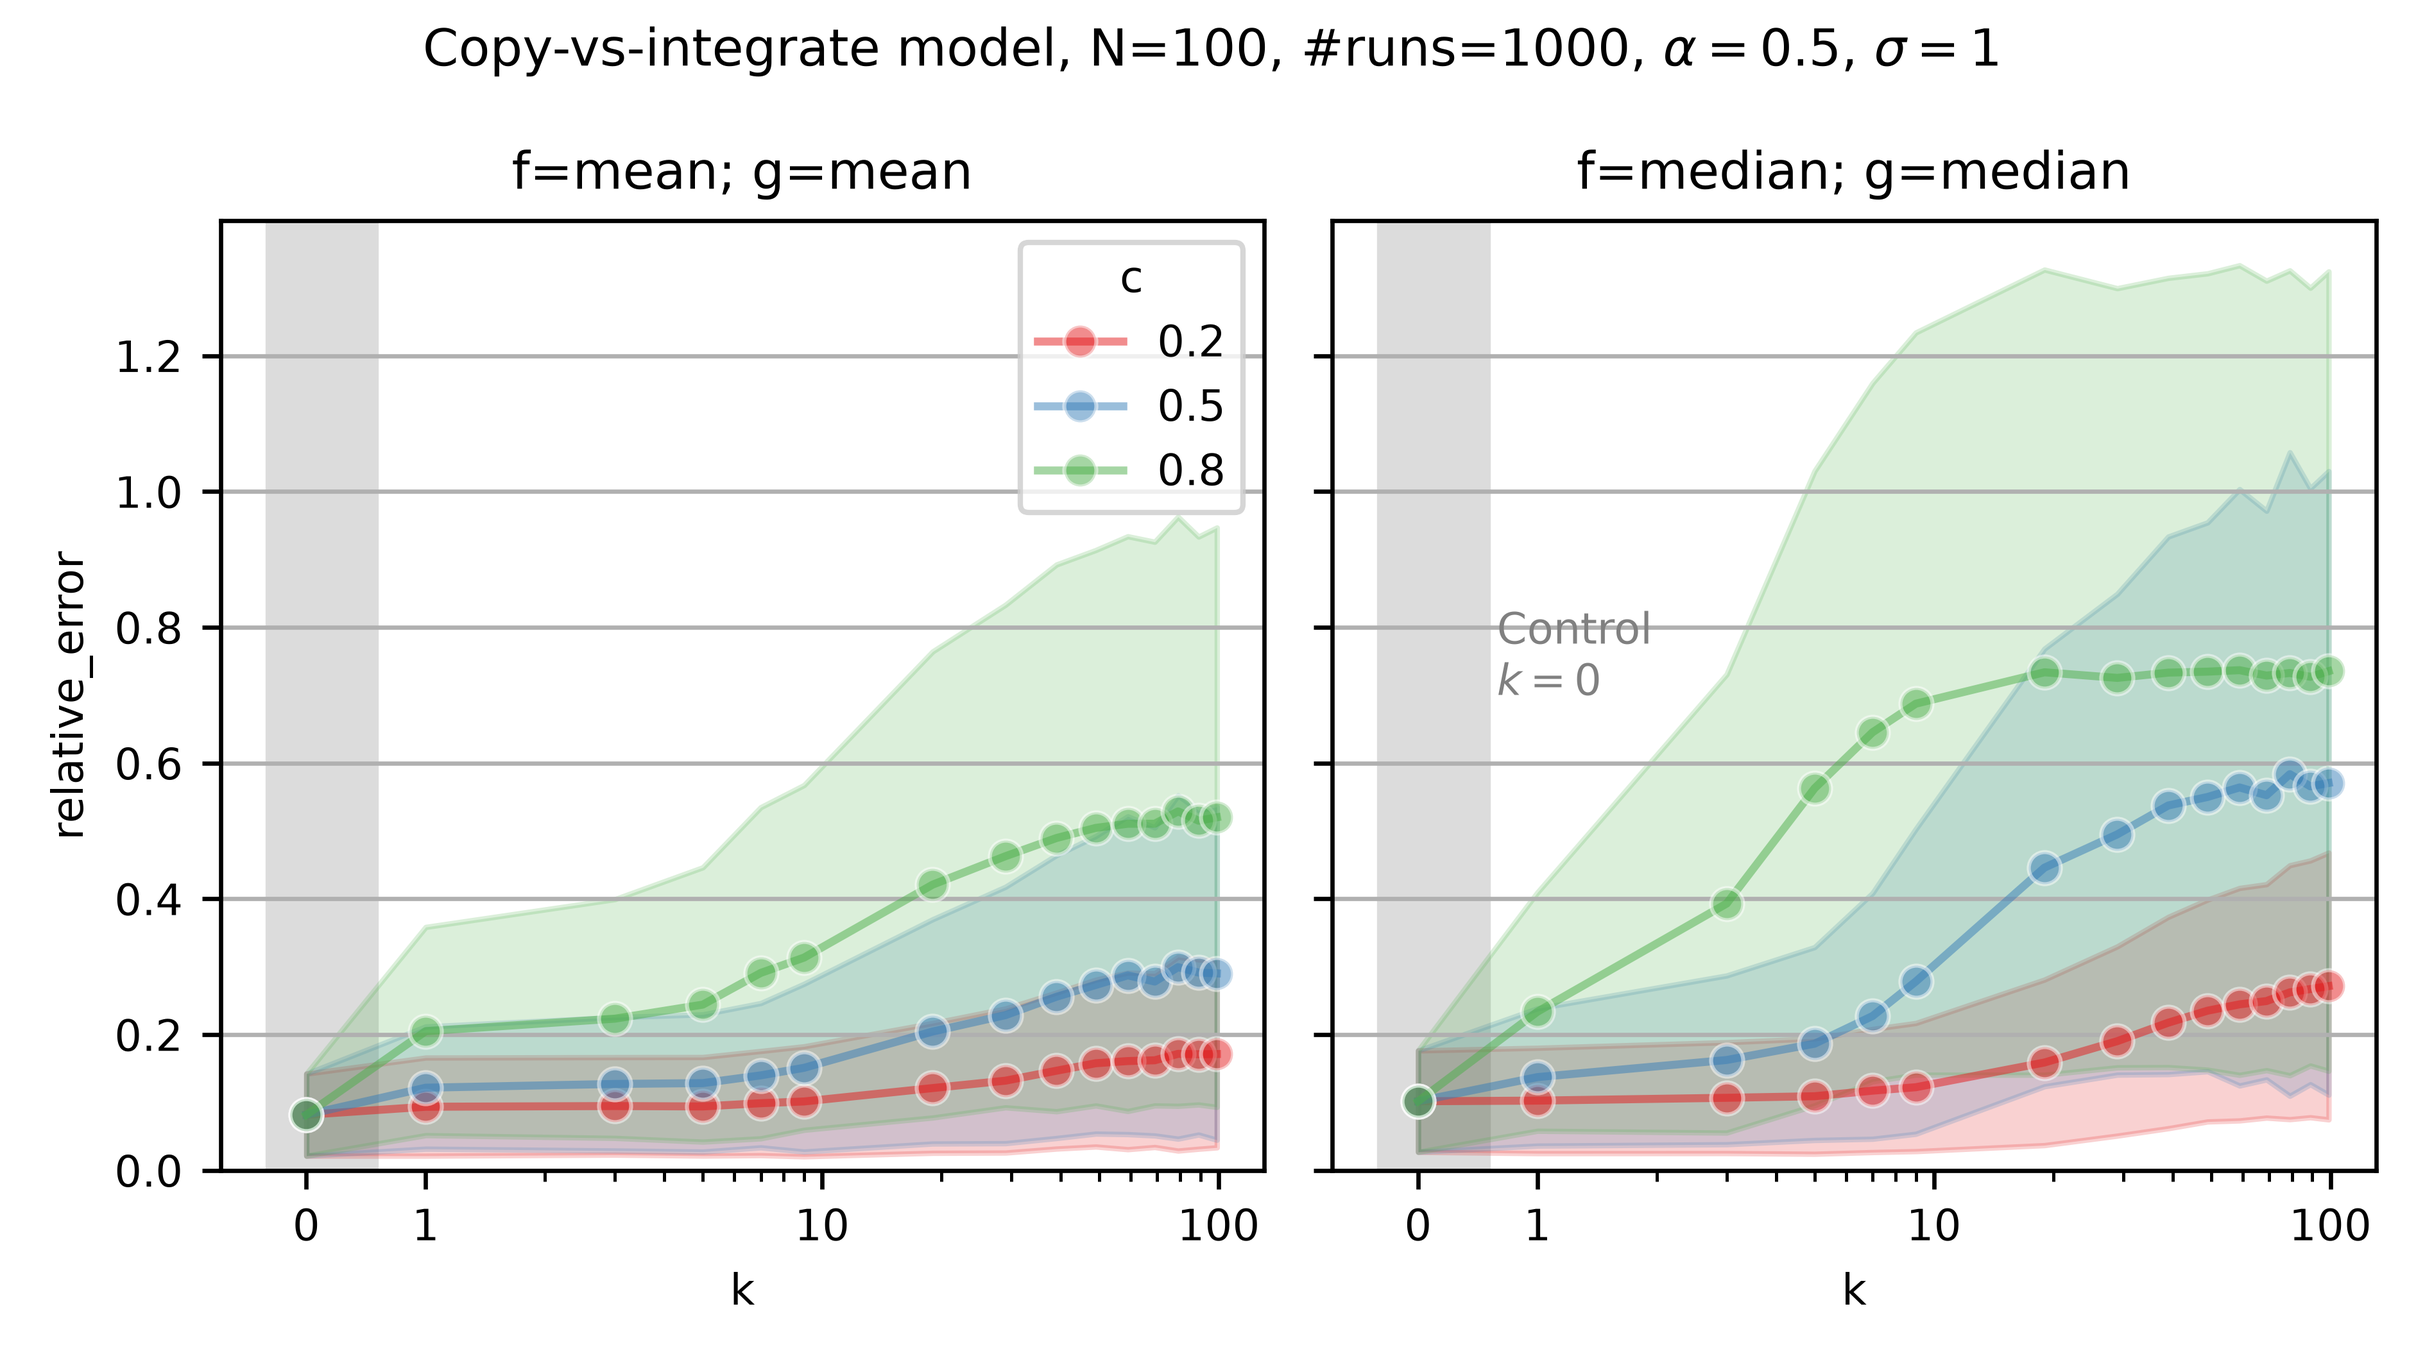
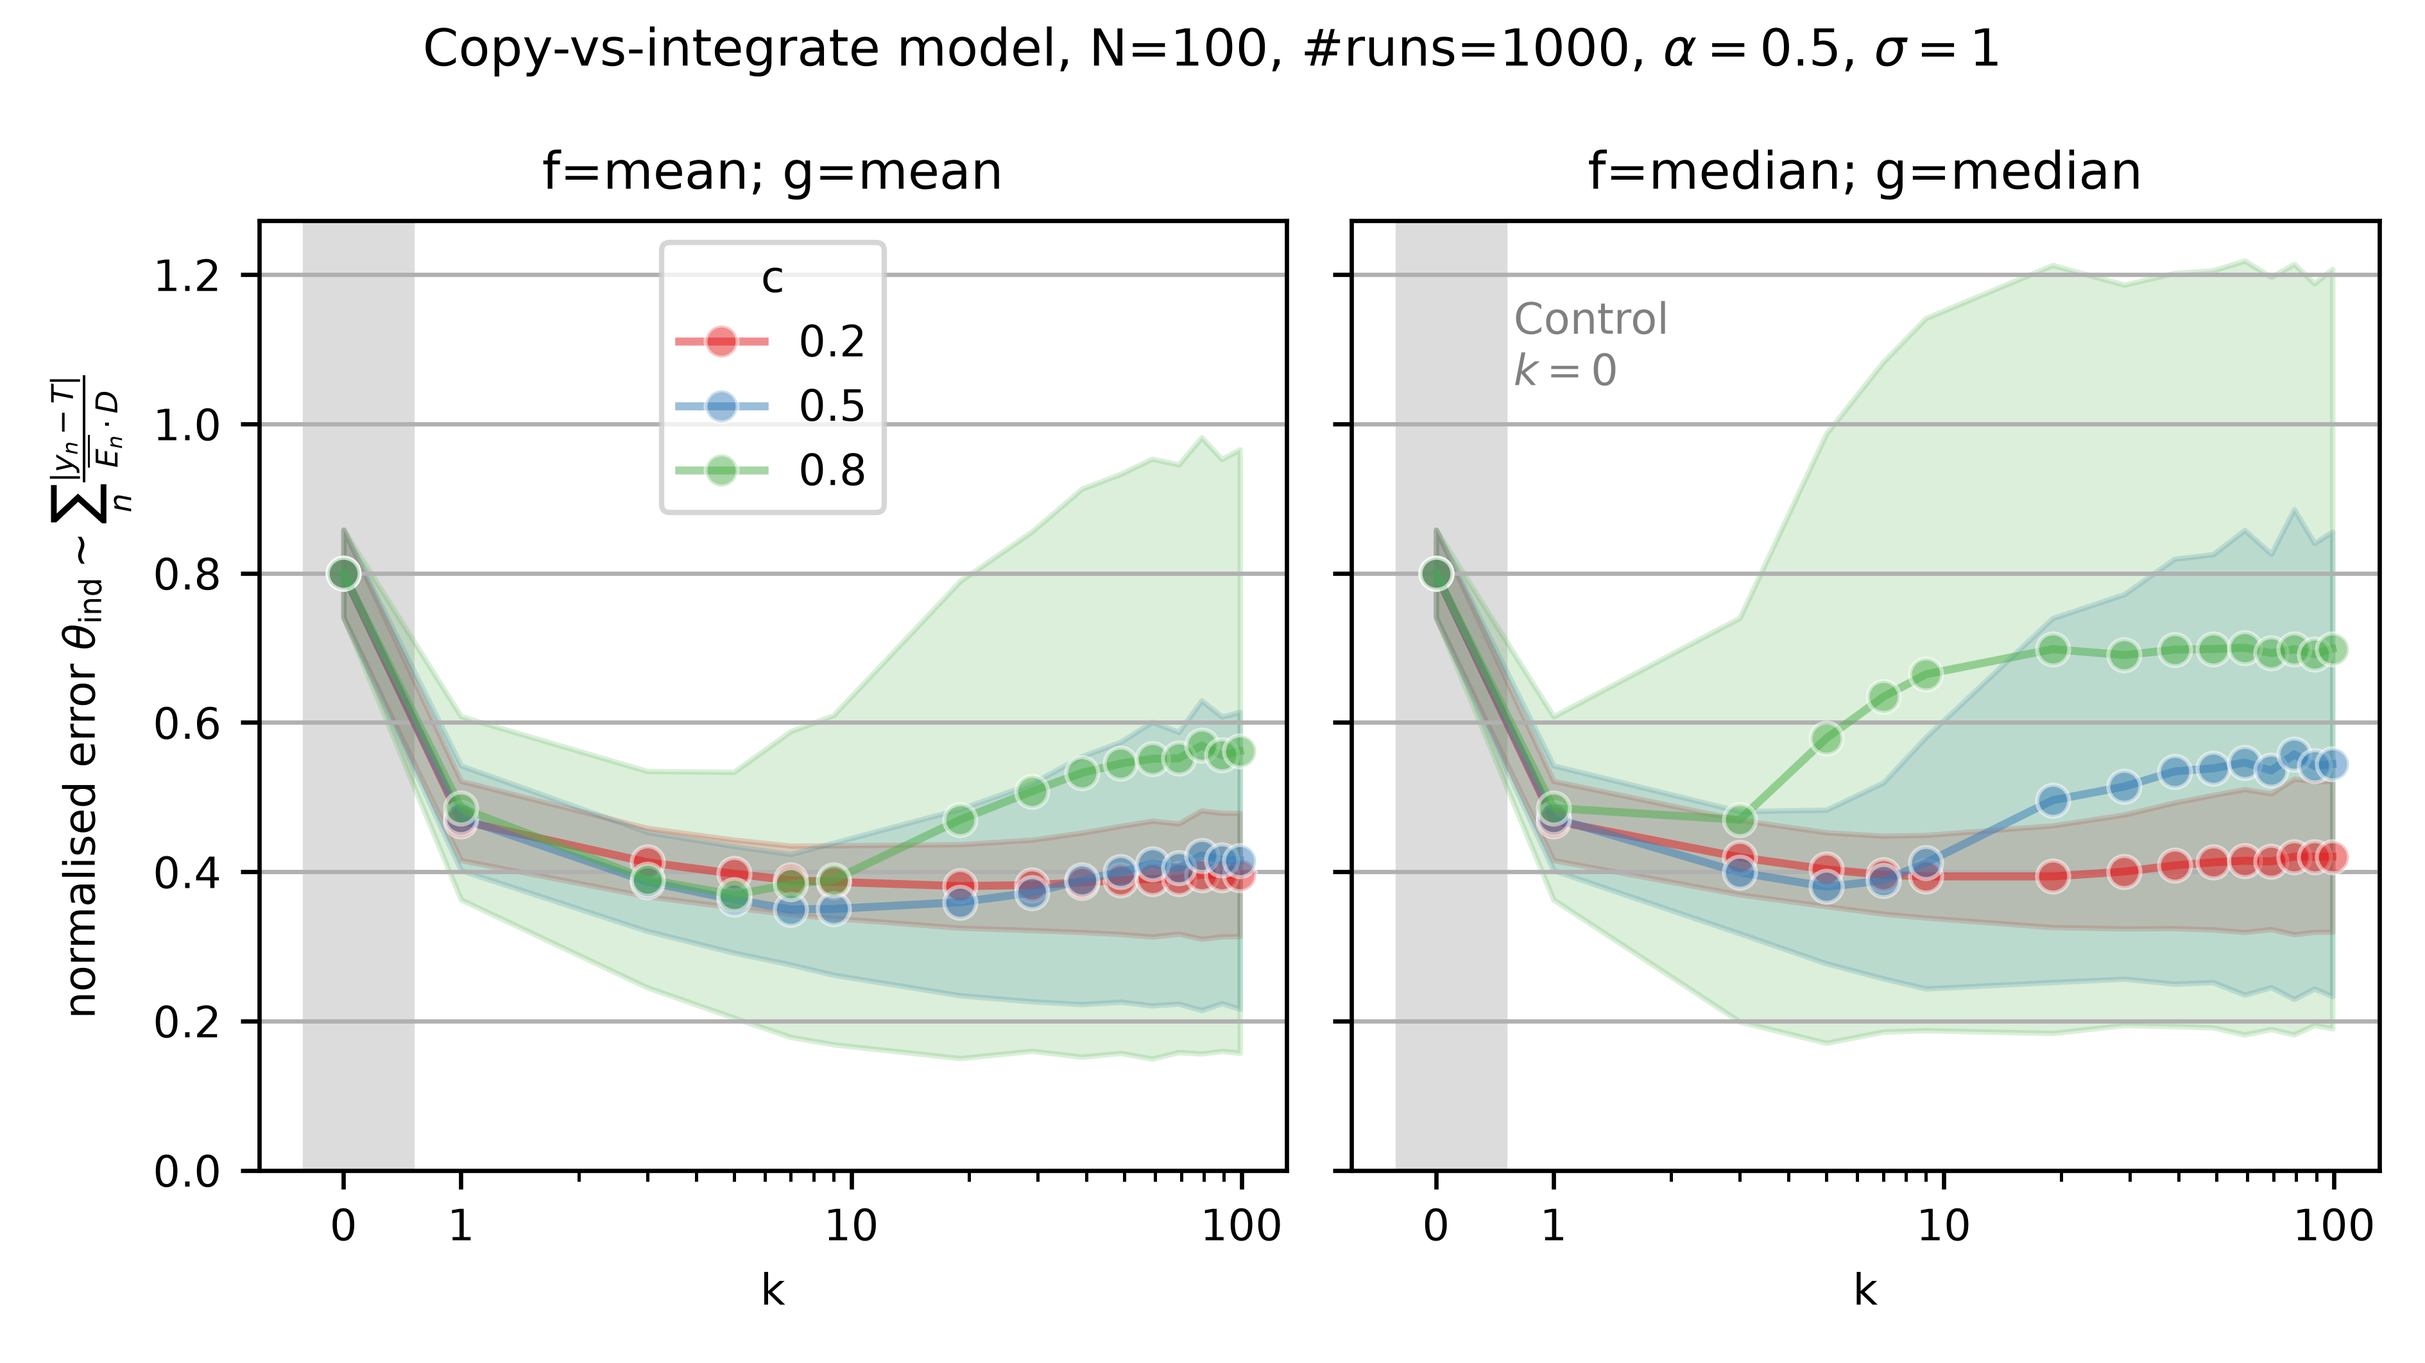
updated scripts

diff --git a/2026-09-20_sequentialJudgement_models.py b/2026-09-20_sequentialJudgement_models.py
@@ -30,6 +30,7 @@ logist = lambda x: (1/(1+np.exp(-x)))
 #     return logist(G) + (1-logist(G)) * 4 * (norm.cdf((signal - truth)/(D*logist(E)))- 0.5)**2 
 def p(signal, truth, G, D, E): 
     return logist(G) + (1-logist(G)) * (erf((signal - truth)/(D*logist(E)*(2**0.5))))**2 
+
 def new_signal(signal, truth, D, E, R, anchoring=True): 
     if np.isnan(signal):
         loc=truth
@@ -70,13 +71,13 @@ inds = range(n_per_chain)
 T = 0.2
 R = 0.4
 anchoring = True
-memory_sizes = [0] + list(range(1,20,2))+[49,99]
+memory_sizes = [0] + list(range(1,20,2))+[29,39,49,59,69,79,89,99]
 
 MHparams = [(-1,3,0), (-1,3,-2), (-1,3,2), (0,3,0), (-1,1,0)]
 errorsMH = []
 copyDict = {}
-for ffunc, gfunc in zip(["mean", "median"], ["mean", "median"]):
-    print(f"{ffunc}, {gfunc}")
+for gfunc in ["mean", "median"]:
+    print(f"{gfunc}")
     sigG, sigE = (1e-5, 1e-5)
     for Gmean, D, Emean in MHparams:
         print(f"Gmean: {Gmean} (and {logist(np.mean(G)):.3f}), Emean={Emean} (and {logist(np.mean(E)):.3f}), D={D}, sigG={sigG}, sigE={sigE}")
@@ -88,61 +89,76 @@ for ffunc, gfunc in zip(["mean", "median"], ["mean", "median"]):
                 guesses = []
                 copier=0
                 for i in inds:
-                    last_k_guesses = guesses if k>=len(guesses) else guesses[-k:]
+                    last_k_guesses = [] if k==0 else (guesses if k>=len(guesses) else guesses[-k:])
                     signal = np.nan if len(last_k_guesses)==0 else agg(last_k_guesses, gfunc)
-                    if not np.isnan(signal):
+                    if not np.isnan(signal) and k>0:
                         p_ik = 1 - p(signal, T,  G=G[i], D=D, E=E[i]) # probability copy
                         copy = int(np.random.random()<p_ik) 
+                    if i==inds[0] or k==0: 
+                        guess = new_signal(np.nan, T, D=D, E=E[i], R=1, anchoring=False)
                     else:
-                            copy = False
-                    guess = signal if copy else new_signal(signal, T, D=D, E=E[i], R=R, anchoring=anchoring)
+                        guess = signal if copy else new_signal(signal, T, D=D, E=E[i], R=R, anchoring=anchoring)
                     guesses.append(guess)
                     copier+= copy
                 copyDict[(Gmean, D, Emean, k, seed)] = copier
-                relerror = abs(agg(guesses, ffunc) - T)/(D*logist(np.mean(E)))
-                errorsMH.append([seed, gfunc, ffunc, D, Emean, Gmean, R, k, relerror])
+                if k==0:
+                    relerror_agg = abs(agg(guesses, "mean") - T)/(D*logist(np.mean(E)))
+                else:
+                    relerror_agg = np.nan
+                relerror_ind_indSigma = np.mean([abs(g-T)/(D*logist(E[i])) for i,g in enumerate(guesses)])
+                relerror_ind_expectedSigma = np.mean([abs(g-T) for g in guesses])/(D*logist(np.mean(E)))
+                relerror_final = abs(guesses[-1]-T)/(D*logist(np.mean(E)))
+                errorsMH.append([seed, gfunc, np.nan, D, Emean, Gmean, R, k, relerror_agg, relerror_ind_indSigma, relerror_ind_expectedSigma, relerror_final])
         # print(f"nr of copy-decisions (last seed) with k={k}: {copier} of {len(inds)-1} decisions")
 
 # %%
-errorsMH_df = pd.DataFrame(errorsMH, columns = ["seed", "gfunc", "ffunc", "D", "E", "G", "R", "k", "relative_error"])
+# errorsMH_df = pd.DataFrame(errorsMH, columns = ["seed", "gfunc", "ffunc", "D", "E", "G", "R", "k", "relative_error_agg", "relative_error_ind_indSigma", "relative_error_ind", "relative_error_final"])
 # errorsMH_df = errorsMH_df.loc[errorsMH_df.k.isin([0]+list(range(1,101,2)))]
 errorsMH_df["k"] = errorsMH_df["k"].astype(float)
-errorsMH_df.loc[errorsMH_df.k==0, "k"] = 0.5
-fig, axs = plt.subplots(1,2,figsize=(16/2.54,9/2.54), sharey=True, sharex=True)
-fig.suptitle(rf"Mayer&Heck model, N={n_per_chain}, #runs={n_seeds}, $R={R}$")
-axes = axs.flatten()
-counter = 0
-for curr_ffunc, curr_gfunc in zip(["mean", "median"], ["mean", "median"]):
-    ax = axes[counter]
-    sub = errorsMH_df.query(f"ffunc=='{curr_ffunc}' and gfunc=='{curr_gfunc}'")
-    sub["parameters"] = r"$\mu_E="+ logist(sub["E"]).map('{:.1f}'.format)+rf"\pm{sigE:.1f}"+ r"$, $\mu_G=" + logist(sub["G"]).map('{:.1f}'.format) +rf"\pm{sigE:.1f}"+ r"$, $D=" + sub["D"].map('{:.0f}'.format)  + r"$"
-    # sub["parameters"] = logist(sub["E"]).map('{:.1f}'.format)+"_" + logist(sub["G"]).map('{:.1f}'.format) +"_"+ sub["D"].map('{:.0f}'.format)  
-    sns.lineplot(sub, x="k", y="relative_error", hue="parameters", ax=ax, marker="o", palette="Set1", alpha=0.5, legend=ax==axs[0], errorbar="sd")
-    # ax.set_yscale("log")
-    if ax==axs[0]: ax.legend(title=None, fontsize=7)
-    ax.set_title(rf"f={curr_ffunc}; g={curr_gfunc}")
-    # for nD, params in enumerate(sub["parameters"].unique()):
-    #     mm = sub.query(fr"parameters=='{params}'")["relative_error"].mean()
-    #     ss = sub.query(fr"parameters=='{params}'")["relative_error"].describe(percentiles=[0.025,0.975]).loc[["2.5%", "97.5%"]].values
-    #     ax.axhline(ss[0], color=plt.get_cmap("Set1").colors[nD], linestyle="--", alpha=0.2)
-    #     ax.axhline(ss[1], color=plt.get_cmap("Set1").colors[nD], linestyle="--", alpha=0.2)
-    #     ax.axhline(mm, color=plt.get_cmap("Set1").colors[nD], linestyle="--")
-    counter+=1
+errorsMH_df.loc[(errorsMH_df.k==0), "k"] = 0.5
+for theta in ["final", "ind"]:
+    
+    fig, axs = plt.subplots(1,2,figsize=(16/2.54,9/2.54), sharey=True, sharex=True)
+    fig.suptitle(rf"Mayer&Heck model, N={n_per_chain}, #runs={n_seeds}, $R={R}$")
+    axes = axs.flatten()
+    counter = 0
+    thetaLabel = (
+        r"normalised error $\theta_\mathrm{final} \sim \frac{|y_N-T|}{\overline{E_n} \cdot D}$" 
+        if theta=="final" else 
+            (r"normalised error $\theta_\mathrm{ind} \sim \sum_n \frac{|y_n-T|}{\overline{E_n} \cdot D}$"
+            if theta=="ind" else 
+            r"normalised error $\theta_\mathrm{WoC} \sim \frac{|\overline{y_n}-T|}{\overline{E_n} \cdot D}$" 
+            )
+    )
 
-for ax in axes:
-    ax.set_ylim(0,)
-    ax.set_xscale("log")
-    ax.grid(axis="y", zorder=-2)
-    ax.set_xticks([x  for x in ax.get_xticks(minor=True) if x>=1], minor=True)
-    ax.set_xticks([0.5] + [x  for x in ax.get_xticks() if x>=1])
-    ax.set_xticklabels(["0"] + [int(x)  for x in ax.get_xticks() if x>=1])
-    ax.fill_betweenx(ax.get_ylim(), 0.4,0.75, color="gainsboro", zorder=-1)
-    if ax==axs[1]: ax.text(0.79,1., "Control\n"+r"$k=0$", color="grey", ha="left")
-plt.tight_layout()
-plt.savefig("figs/model2_results.png", dpi=600)
+    for curr_gfunc in ["mean", "median"]:
+        ax = axes[counter]
+        sub = errorsMH_df.query(f"gfunc=='{curr_gfunc}'")
+        sub["parameters"] = r"$\mu_E="+ logist(sub["E"]).map('{:.1f}'.format) + rf"\pm{sigE:.1f}" + r"$, $\mu_G=" + logist(sub["G"]).map('{:.1f}'.format) + rf"\pm{sigE:.1f}"+ r"$, $D=" + sub["D"].map('{:.0f}'.format)  + r"$"
+        sns.lineplot(sub, x="k", y="relative_error_"+theta, hue="parameters", ax=ax, marker="o", palette="Set1", alpha=0.5, linestyle="-", legend=ax==axs[0], errorbar="sd", err_kws={'alpha':0.1})
+        # ax.set_yscale("log")
+        if ax==axs[0]: ax.legend(title=None, fontsize=7)
+        ax.set_title(rf"$x_n=\,${curr_gfunc} of last $k$ estimates")
+        G,D,E  =  (-1,1,0)
+        mm = sub.query(fr"k==0.5 and D=={D} and G=={G} and E=={E}")["relative_error_agg"].mean()
+        ax.axhline(mm, color="k", linestyle="--", alpha=0.6)
+        counter+=1
+    axes[0].set_ylabel(thetaLabel)
+
+    for ax in axes:
+        ax.set_ylim(0,)
+        ax.set_xscale("log")
+        ax.grid(axis="y", zorder=-2)
+        ax.set_xticks([x  for x in ax.get_xticks(minor=True) if x>=1], minor=True)
+        ax.set_xticks([0.5] + [x  for x in ax.get_xticks() if x>=1])
+        ax.set_xticklabels(["0"] + [int(x)  for x in ax.get_xticks() if x>=1])
+        ax.fill_betweenx(ax.get_ylim(), 0.4,0.75, color="gainsboro", zorder=-1)
+        if ax==axs[1]: ax.text(0.79,ax.get_ylim()[1]*0.92, "Control\n"+r"$k=0$", color="grey", ha="left", va="top")
+        if ax==axs[1]: ax.text(1.4, mm+0.02, r"$\theta_{\rm WoC}(k=0)$", color="grey")
+    plt.tight_layout()
+    plt.savefig(f"figs/model2_results_{theta}.png", dpi=600)
 
 #%%
-
 # ---------------------
 # -----   Marina, Alexandros, Pantelis et al
 # ---------------------
@@ -157,54 +173,82 @@ memory_sizes = [0] + list(range(1,10, 2))+list(range(19,100,10))
 
 errors = []
 errorsindep = []
-for ffunc, gfunc in zip(["mean", "median"], ["mean", "median"]):
-        print(ffunc, gfunc)
-        for c in [0.2,0.5, 0.8]:
+for gfunc in ["mean", "median"]:
+        print(gfunc)
+        for c in [0.2,0.5,0.8]:
             for seed in range(n_seeds):
                 np.random.seed(seed)
                 private_beliefs = st.norm(loc=T, scale=sig).rvs(n_per_chain)
                 for k in memory_sizes:
                     guesses = []
                     for i in inds:
-                        last_k_guesses = guesses if k>=len(guesses) else guesses[-k:] 
+                        last_k_guesses = [] if k==0 else (guesses if k>=len(guesses) else guesses[-k:])
                         signal = np.nan if len(last_k_guesses)==0 else agg(last_k_guesses, gfunc)
-                        if not np.isnan(signal): 
+                        if not np.isnan(signal) and k>0: 
                             copy = bool(np.random.random()<c) 
-                        else:
-                            copy = False
                         if i==inds[0] or k==0: 
                             guess = private_beliefs[i]
                         else:
                             guess = signal if copy else (alpha * signal + (1-alpha) * private_beliefs[i])
                         guesses.append(guess)
-                    relerror = abs(agg(guesses, ffunc) - T)/sig
-                    errors.append([seed, gfunc, ffunc, c, alpha, sig, k, relerror])
+
+                    if k==0:
+                        relerror_agg = abs(agg(guesses, "mean") - T)/(sig)
+                    else:
+                        relerror_agg = np.nan
+                    relerror_ind = np.mean([abs(g-T) for g in guesses])/sig
+                    relerror_final = abs(guesses[-1]-T)/sig
+                    errors.append([seed, gfunc, np.nan, c, alpha, sig, k, relerror_agg, relerror_ind, relerror_final])
 
 # %%
-errors_df = pd.DataFrame(errors, columns = ["seed", "gfunc", "ffunc", "c", "alpha", "sig", "k", "relative_error"])
+errors_df = pd.DataFrame(errors, columns = ["seed", "gfunc", "ffunc", "c", "alpha", "sig", "k", "relative_error_agg", "relative_error_ind", "relative_error_final"]) 
 errors_df["k"] = errors_df["k"].astype(float)
 errors_df.loc[errors_df.k==0, "k"] = 0.5
 
-fig, axs = plt.subplots(1,2,figsize=(16/2.54,9/2.54), sharey=True, sharex=True)
-fig.suptitle(rf"Copy-vs-integrate model, N={n_per_chain}, #runs={n_seeds}, $\alpha={alpha}$, $\sigma={sig}$")
-axes = axs.flatten()
-counter = 0
-for curr_ffunc, curr_gfunc in zip(["mean", "median"], ["mean", "median"]):
-        ax = axes[counter]
-        sub = errors_df.query(f"ffunc=='{curr_ffunc}' and gfunc=='{curr_gfunc}'")
-        sns.lineplot(sub, x="k", y="relative_error", hue="c", ax=ax, marker="o", palette="Set1", alpha=0.5, errorbar="sd", legend=(ax==axs[0]))
-        ax.set_title(rf"f={curr_ffunc}; g={curr_gfunc}")
-        counter+=1
-for ax in axes:
-    ax.set_ylim(0,)
-    ax.set_xscale("log")
-    ax.grid(axis="y", zorder=-2)
-    ax.set_xticks([x  for x in ax.get_xticks(minor=True) if x>=1], minor=True)
-    ax.set_xticks([0.5] + [x  for x in ax.get_xticks() if x>=1])
-    ax.set_xticklabels(["0"] + [int(x)  for x in ax.get_xticks() if x>=1])
-    ax.fill_betweenx(ax.get_ylim(), 0.4,0.75, color="gainsboro", zorder=-1)
-    if ax==axs[1]: ax.text(0.79,0.7, "Control\n"+r"$k=0$", color="grey", ha="left")
-plt.tight_layout()
+for theta in ["final", "ind"]:
+    
+    fig, axs = plt.subplots(1,2,figsize=(16/2.54,9/2.54), sharey=True, sharex=True)
+    fig.suptitle(rf"Copy&Integrate model, N={n_per_chain}, #runs={n_seeds}")
+    axes = axs.flatten()
+    WoCLines = []
+    counter = 0
+    thetaLabel = (
+        r"normalised error $\theta_\mathrm{final} \sim \frac{|y_N-T|}{\overline{E_n} \cdot D}$" 
+        if theta=="final" else 
+            (r"normalised error $\theta_\mathrm{ind} \sim \sum_n \frac{|y_n-T|}{\overline{E_n} \cdot D}$"
+            if theta=="ind" else 
+            r"normalised error $\theta_\mathrm{WoC} \sim \frac{|\overline{y_n}-T|}{\overline{E_n} \cdot D}$" 
+            )
+    )
 
-plt.savefig("figs/model1_results.png", dpi=600)
+    for curr_gfunc in ["mean", "median"]:
+        ax = axes[counter]
+        sub = errors_df.query(f"gfunc=='{curr_gfunc}'")
+        sns.lineplot(sub, x="k", y="relative_error_"+theta, hue="c", ax=ax, marker="o", palette="Set1", alpha=0.5, linestyle="-", legend=ax==axs[0], errorbar="sd", err_kws={'alpha':0.1})
+        # ax.set_yscale("log")
+        if ax==axs[0]: ax.legend(title=r"$c$",  fontsize=7)
+        ax.set_title(rf"$x_n=\,${curr_gfunc} of last $k$ estimates")
+        mm = sub.query(fr"c=={sub.c.unique()[0]} and k==0.5")["relative_error_agg"].mean()
+        ax.axhline(mm, color="k", linestyle="--", alpha=0.6)
+        WoCLines.append(mm)
+        # for nC, c in enumerate(sub.c.unique()):
+        #     mm = sub.query(fr"c=={c} and k==0.5")["relative_error_agg"].mean()
+        #     ax.axhline(mm, color=plt.get_cmap("Set1")(nC), linestyle="--", lw=0.6*c)
+        #     WoCLines.append(mm)
+        counter+=1
+    axes[0].set_ylabel(thetaLabel)
+
+    for ax in axes:
+        ax.set_ylim(0,)
+        ax.set_xscale("log")
+        ax.grid(axis="y", zorder=-2)
+        ax.set_xticks([x  for x in ax.get_xticks(minor=True) if x>=1], minor=True)
+        ax.set_xticks([0.5] + [x  for x in ax.get_xticks() if x>=1])
+        ax.set_xticklabels(["0"] + [int(x)  for x in ax.get_xticks() if x>=1])
+        ax.fill_betweenx(ax.get_ylim(), 0.4,0.75, color="gainsboro", zorder=-1)
+        if ax==axs[1]: ax.text(0.79,ax.get_ylim()[1]*0.92, "Control\n"+r"$k=0$", color="grey", ha="left", va="top")
+        if ax==axs[1]: ax.text(1.4, mm+0.02, r"$\theta_{\rm WoC}(k=0)$", color="grey")
+    plt.tight_layout()
+    plt.savefig(f"figs/model1_results_{theta}.png", dpi=600)
+
 # %%
